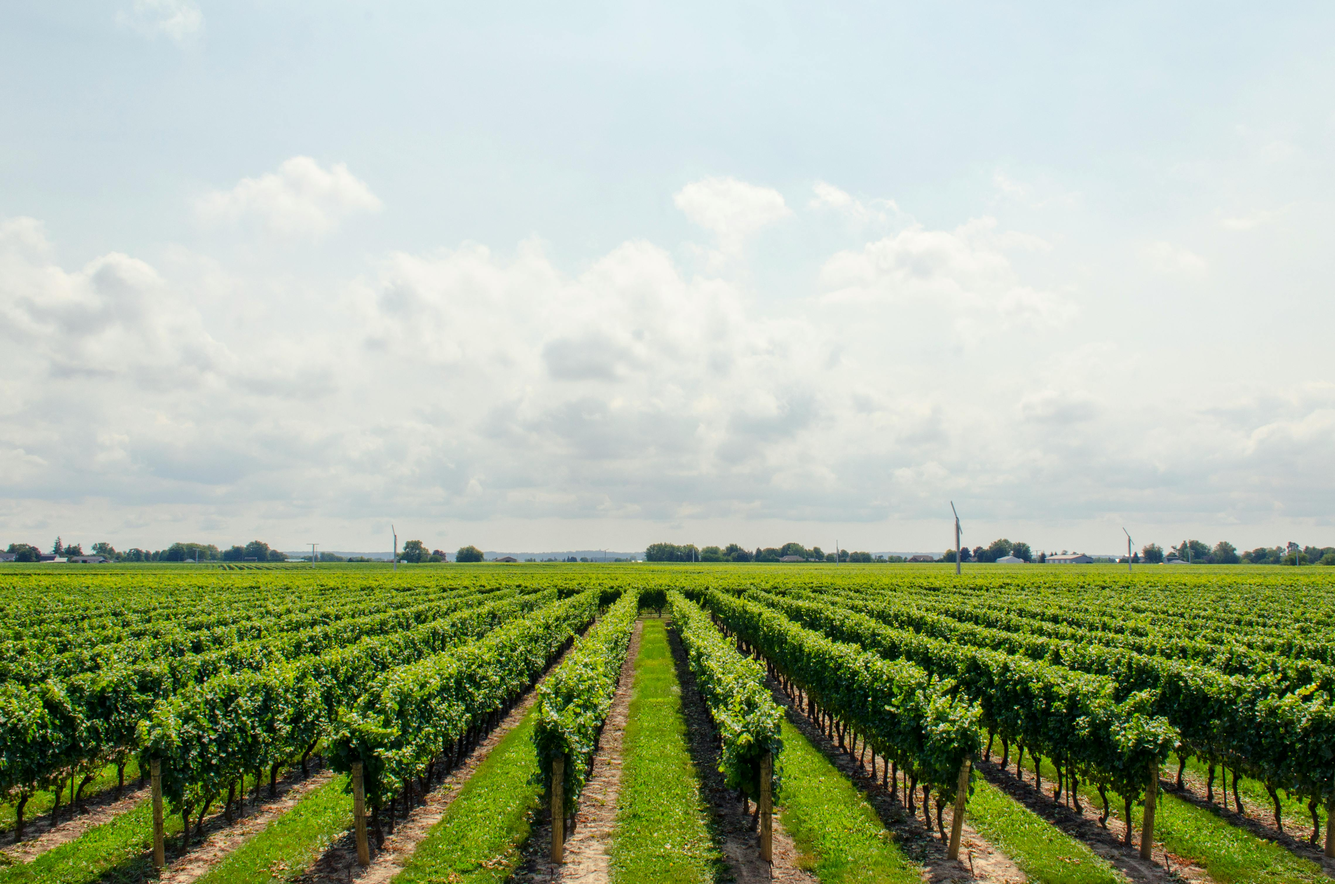
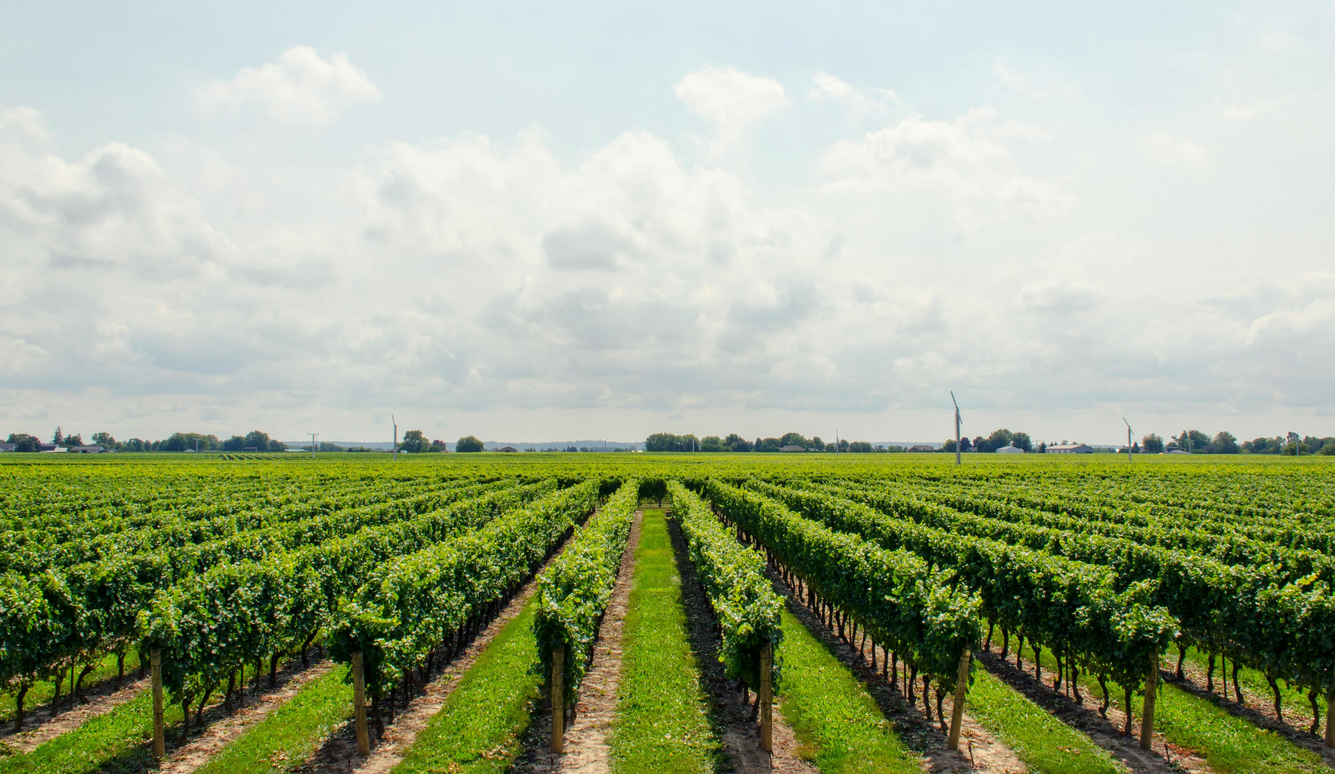
Add Crops Form Background Image

diff --git a/AAD/cropsForm.css b/AAD/cropsForm.css
@@ -1,3 +1,8 @@
+#backGroundImg>img{
+    width: 100vw;
+    height: 100vh;
+}
+
 #homeBtn{
     position: absolute;
     top: -10px;
@@ -80,11 +85,23 @@
     height: 25px;
 }
 
+#allTxtFields>div>input{
+    font-size: 8px;
+    border-radius: 50px;
+    box-shadow: rgba(0, 0, 0, 0.16) 0px 3px 6px, rgba(0, 0, 0, 0.23) 0px 3px 6px;
+}
+
 #allBtns>button{
     width: 70px;
     height: 30px;
     font-size: 12px;
     font-family: Calibri;
+    border-radius: 20px;
+    border-color: #DCBB8C;
+    background-color: #DCBB8C;
+    color: white;
+    font-weight: bold;
+    box-shadow: rgba(0, 0, 0, 0.16) 0px 3px 6px, rgba(0, 0, 0, 0.23) 0px 3px 6px;
 }
 
 #allBtns{
@@ -98,4 +115,19 @@
     left: 0;
     margin: auto;
     gap: 10px;
+}
+
+#blurBckgound {
+    width: 750px;
+    height: 155px;
+    background-color: #F1D1AA;
+    opacity: 50%;
+    border-radius: 25px;
+    position: absolute;
+    top: -100px;
+    bottom: 0;
+    right: 0;
+    left: 0;
+    margin: auto;
+    box-shadow: rgba(50, 50, 93, 0.25) 0px 50px 100px -20px, rgba(0, 0, 0, 0.3) 0px 30px 60px -30px, rgba(10, 37, 64, 0.35) 0px -2px 6px 0px inset;
 }

diff --git a/AAD/staffForm.html b/AAD/staffForm.html
@@ -18,7 +18,7 @@
 <div id="blurBackground">
 <div id="allTxtFields">
     <div class="txtField">
-        <input class="form-control form-control-sm" type="text" placeholder="Id" aria-label=".form-control-sm example">
+        <input class="form-control form-control-sm" type="text" placeholder="ID" aria-label=".form-control-sm example">
         <input class="form-control form-control-sm" type="text" placeholder="First Name" aria-label=".form-control-sm example">
         <input class="form-control form-control-sm" type="text" placeholder="Last Name" aria-label=".form-control-sm example">
         <input class="form-control form-control-sm" type="text" placeholder="Designation" aria-label=".form-control-sm example">

diff --git a/AAD/staffForm.css b/AAD/staffForm.css
@@ -19,7 +19,7 @@
 }
 
 #backgroundImg>img{
-    width: 98.5vw;
+    width: 98.7vw;
     height: 130vh;
 }
 
@@ -29,6 +29,7 @@
     left: 320px;
     font-family: Calibri;
     font-weight: bold;
+    color: #B98F5A;
 }
 
 .txtField{

diff --git a/AAD/cropsForm.html b/AAD/cropsForm.html
@@ -10,8 +10,11 @@
 </head>
 <body>
 
+<div id="backGroundImg"><img src="assets/images/crops.jpg"></div>
+
 <h3 id="heading">Crops Form</h3>
 
+<div id="blurBckgound"></div>
 
 <div id="allTxtFields">
     <div class="txtField">
